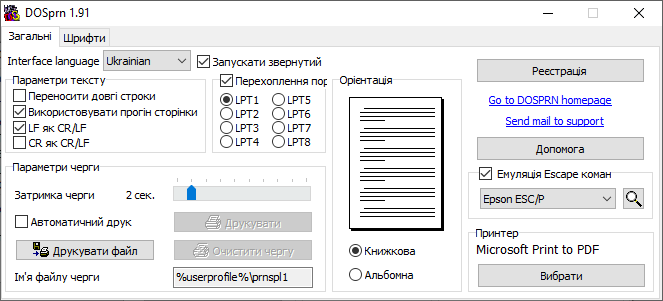
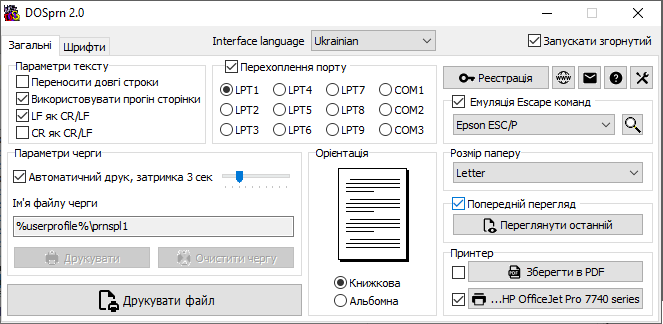
v2.0

diff --git a/readme.htm b/readme.htm
@@ -1,5 +1,5 @@
 <!DOCTYPE HTML PUBLIC "-//W3C//DTD HTML 4.0 Transitional//EN">
-<HTML><HEAD><TITLE>DOSPRN 1.91 документація</TITLE>
+<HTML><HEAD><TITLE>DOSPRN 2.0 документація</TITLE>
 <META http-equiv=Content-Type content="text/html; charset=utf-8">
 <META http-equiv=Content-Language content=en-us>
 <META name=Keywords  content="DOS, printers, program, print, printer, USB, programs, LPT, DOS program, software, national, language, internanional" >
@@ -23,7 +23,7 @@
     <TD width="100%">      <table border="0" cellspacing="0" cellpadding="0">
         <tr>
           <td width="50"><IMG src="images/logo.gif" ALT="Print from DOS on printers under Windows98, WinXP, Windows2000" width="42" height="39"></td>
-          <td width="281"><font size="5"><b>DOSPRN 1.91</b></font></td>
+          <td width="281"><font size="5"><b>DOSPRN 2.0</b></font></td>
           <td width="194">      
       <table border="2" bgcolor="#C0C0C0" cellpadding="4" cellspacing="4">
         <tr>
@@ -64,7 +64,7 @@
       ознайомитися з роботою DOSPRN та спробувати її в роботі з вашими програмами для DOS на протязі випробувального періоду. По закінченні цьогу періоду
       ви маєте або зареєструвати вашу копію або видалити її з вашого комп'ютера за допомогою утиліти деінсталяції яка розміщена у головному меню Робочого столу у групі DOSPRN.</P>
       <H3 align=justify>Інсталяція</H3>
-      <P align=justify>Загрузіть та запустіть на виконання само-розпаковуючийся файл <I><a href="https://www.dosprn.com/DOSprn191.exe">DOSprn191.exe</a></I>. 
+      <P align=justify>Загрузіть та запустіть на виконання само-розпаковуючийся файл <I><a href="https://www.dosprn.com/DOSprn200.exe">DOSprn200.exe</a></I>. 
       Вам треба буде відповісти на кілька простих питань. Під час інсталяції DOSPRN копіює усі необхідні файли та створює ярлики на вашому комп'ютері.</P>
       <H3 align=justify>Запуск програми</H3>Ви можете стартувати DOSPRN за допомогою ярлика на Робочому Столі або з папки "DOSPRN" 
       у головному меню Windows. Також DOSPRN може стартувати автоматично разом в операційною системою з папки "Автозагрузка" (якщо ви обрали таку можливість під час інсталяції). 

diff --git a/news.htm b/news.htm
@@ -1,5 +1,5 @@
 <!DOCTYPE HTML PUBLIC "-//W3C//DTD HTML 4.0 Transitional//EN">
-<HTML><HEAD><TITLE>DOSPRN 1.91 секція новин</TITLE>
+<HTML><HEAD><TITLE>DOSPRN 2.0 секція новин</TITLE>
 <META http-equiv=Content-Language content=en-us>
 <META http-equiv=Content-Type content="text/html; charset=utf-8">
 <META name=Keywords  content="dos print news, dos printer driver, dos printer, dos usb driver, dos print command, DOS, printers, program, print, printer, USB, programs, LPT, DOS program, software, national, language, internanional" >
@@ -57,6 +57,16 @@
   <TR>
     <TD width="100%">
       <H3>Новини</H3>
+      <P><B>Version 2.0</B></P>
+      + додано нову опцію <a href="print-preview.htm">Попередній перегляд</a><br>
+      + додано нову опцію <a href="pdf-settings.htm">Зберегти у PDF</a> option<br>
+      + додана підтримка друку послідовних портів COM1..COM3<br>
+      + додана опція зберігання та відновлення налаштувань<br>
+      + додана можливість стоврювати <a href="inline-qrcode.htm">QR коди</a> безпосередньо з текстів у документах<br>
+      + додано інтерфейс Традиційний Китайський<br>
+      + додана часткова еміуляція управляючих послідовностей ETEN Chinese<br>
+      * суттєві зміни інтерфейсу<br>
+      * виправлення помилок<br>
       <P><B>Version 1.91</B></P>
       + додана підтримка паралельних портів LPT4..LPT8<br>
       * виправлена помилка переривання повноекранного режима ДОС під час друку<br>

diff --git a/index.htm b/index.htm
@@ -1,5 +1,5 @@
 <!DOCTYPE HTML PUBLIC "-//W3C//DTD HTML 4.0 Transitional//EN">
-<HTML><HEAD><TITLE>DOSPRN 1.91. Друкуємо з DOS програм на принтери зумісні з Windows</TITLE>
+<HTML><HEAD><TITLE>DOSPRN 2.0. Друкуємо з DOS програм на принтери зумісні з Windows</TITLE>
 <META http-equiv=Content-Type content="text/html; charset=utf-8">
 <META http-equiv=Content-Language content=en-us>
 <META name=Keywords  content="dos print, printer, printers, DOS, win, windows, win2k, windows2000, program, USB, programs, LPT, DOS program, software, national, language, internanional" >
@@ -22,7 +22,7 @@
       <table border="0" cellspacing="0" cellpadding="0">
         <tr>
           <td width="50"><IMG src="images/logo.gif" ALT="Print from DOS on printers under Windows98, WinXP, Windows2000" width="42" height="39"></td>
-          <td width="281"><font size="5"><b>DOSPRN 1.91</b></font></td>
+          <td width="281"><font size="5"><b>DOSPRN 2.0</b></font></td>
           <td width="194">      
       <table border="2" bgcolor="#C0C0C0" cellpadding="4" cellspacing="4">
         <tr>
@@ -60,7 +60,7 @@
       <P>DOSPRN також може бути корисний якщо DOS програма прациює на вашій <b>рідній мові</b> але ваш принтер 
       не підтримує друк на вашій мові у текстовому режимі.</P>
       <P>DOSPRN розповсюджується як shareware. Загрузіть його звідси та <I><B><A 
-      href="https://www.dosprn.com/DOSprn191.exe">Спробуйте ЗАРАЗ</A></B></I> 
+      href="https://www.dosprn.com/DOSprn200.exe">Спробуйте ЗАРАЗ</A></B></I> 
       </P></TD></TR>
   <TR>
     <TD align=middle width=550 height=26>

diff --git a/download.htm b/download.htm
@@ -1,5 +1,5 @@
 <!DOCTYPE HTML PUBLIC "-//W3C//DTD HTML 4.0 Transitional//EN">
-<HTML><HEAD><TITLE>DOSPRN 1.91 dowload now</TITLE>
+<HTML><HEAD><TITLE>DOSPRN 2.0 dowload now</TITLE>
 <META http-equiv=Content-Language content=en-us>
 <META http-equiv=Content-Type content="text/html; charset=windows-1252">
 <META name=Keywords  content="dos printer driver, dos print download, dos printer, dos usb driver, dos print command, DOS, printers, program, print, printer, USB, programs, LPT, DOS program, software, national, language, internanional" >
@@ -22,7 +22,7 @@
     <TD width="100%">      <table border="0" cellspacing="0" cellpadding="0">
         <tr>
           <td width="50"><IMG src="images/logo.gif" ALT="Print from DOS on printers under Windows98, WinXP, Windows2000" width="42" height="39"></td>
-          <td width="281"><font size="5"><b>DOSPRN 1.91</b></font></td>
+          <td width="281"><font size="5"><b>DOSPRN 2.0</b></font></td>
           <td width="194">      
       <table border="2" bgcolor="#C0C0C0" cellpadding="4" cellspacing="4">
         <tr>
@@ -62,8 +62,8 @@
       <p>We strongly recommend that you thoroughly review the <a href="readme.htm">DOSPRN manual</a>
       and <a href="faq.htm">our FAQ</a>.<br>
       <br>
-      <a href="https://www.dosprn.com/DOSprn191.exe">Click here for download the
-      self-extracting file <i>DOSprn191.exe (1.8 Mb)</i></a><br>
+      <a href="https://www.dosprn.com/DOSprn200.exe">Click here for download the
+      self-extracting file <i>DOSprn200.exe (1.8 Mb)</i></a><br>
       <br>
       DOSPRN will remind you about registration each time you print report from your DOS application. If you have
       any questions about

diff --git a/order.htm b/order.htm
@@ -1,5 +1,5 @@
 <!DOCTYPE HTML PUBLIC "-//W3C//DTD HTML 4.0 Transitional//EN">
-<HTML><HEAD><TITLE>Order DOSPRN 1.91</TITLE>
+<HTML><HEAD><TITLE>Order DOSPRN 2.0</TITLE>
 <META http-equiv=Content-Language content=en-us>
 <META http-equiv=Content-Type content="text/html; charset=windows-1252">
 <META name=Keywords content="DOS print order, DOS2usb purchase, DOS printers, program, print, printer, DOS USB, programs, LPT, DOS program, DOS software">
@@ -24,7 +24,7 @@
       <table border="0" cellspacing="0" cellpadding="0">
         <tr>
           <td width="50"><IMG src="images/logo.gif" ALT="Print from DOS on printers under Windows98, WinXP, Windows2000" width="42" height="39"></td>
-          <td width="281"><font size="5"><b>DOSPRN 1.91</b></font></td>
+          <td width="281"><font size="5"><b>DOSPRN 2.0</b></font></td>
           <td width="194">      
       <table border="2" bgcolor="#C0C0C0" cellpadding="4" cellspacing="4">
         <tr>
@@ -78,7 +78,7 @@ After expiry of the trial period, you&nbsp;should register this program.</P>
 
       <P>
       If your DOSPRN's trial period has been expired now you can download and install
-      a <a href="https://www.dosprn.com/DOSprn191.exe">special "vacation" build</a> of DOSPRN 1.91. The trial period will be 
+      a <a href="https://www.dosprn.com/DOSprn200.exe">special "vacation" build</a> of DOSPRN 2.0. The trial period will be 
       expanded up to August, 1.
       </P>
 -->

diff --git a/sequences.htm b/sequences.htm
@@ -1,5 +1,5 @@
 <!DOCTYPE HTML PUBLIC "-//W3C//DTD HTML 4.0 Transitional//EN">
-<HTML><HEAD><TITLE>DOSPRN 1.91 supported ESC sequences</TITLE>
+<HTML><HEAD><TITLE>DOSPRN 2.0 supported ESC sequences</TITLE>
 <META http-equiv=Content-Type content="text/html; charset=windows-1251">
 <META name=Keywords  content="dos printer driver, dos printer, dos usb driver, dos print command, DOS, printers, program, print, printer, USB, programs, LPT, DOS program, software, national, language, internanional" >
 <META name=Description  content="DOSPRN allow to use your old favorite DOS program with new printers independently of their types (yes, and USB also !)" >
@@ -22,7 +22,7 @@
     <TD width="100%">      <table border="0" cellspacing="0" cellpadding="0" width="630">
         <tr>
           <td width="50"><IMG src="images/logo.gif" ALT="Print from DOS on printers under Windows98, WinXP, Windows2000" width="42" height="39"></td>
-          <td width="345"><font size="5"><b>DOSPRN 1.91</b></font></td>
+          <td width="345"><font size="5"><b>DOSPRN 2.0</b></font></td>
           <td width="229">      
       <table border="2" bgcolor="#C0C0C0" cellpadding="4" cellspacing="4">
         <tr>

diff --git a/login.htm b/login.htm
@@ -1,5 +1,5 @@
 <!DOCTYPE HTML PUBLIC "-//W3C//DTD HTML 4.0 Transitional//EN">
-<HTML><HEAD><TITLE>DOSPRN 1.91 registered users login</TITLE>
+<HTML><HEAD><TITLE>DOSPRN 2.0 registered users login</TITLE>
 <META http-equiv=Content-Language content=en-us>
 <META http-equiv=Content-Type content="text/html; charset=windows-1252">
 <META name=Keywords  content="dos printer driver, dos printer, dos usb driver, dos print command, DOS, printers, program, print, printer, USB, programs, LPT, DOS program, software, national, language, internanional" >
@@ -22,7 +22,7 @@
     <TD width="100%">      <table border="0" cellspacing="0" cellpadding="0">
         <tr>
           <td width="50"><IMG src="images/logo.gif" ALT="Print from DOS on printers under Windows98, WinXP, Windows2000" width="42" height="39"></td>
-          <td width="281"><font size="5"><b>DOSPRN 1.91</b></font></td>
+          <td width="281"><font size="5"><b>DOSPRN 2.0</b></font></td>
           <td width="194">      
       <table border="2" bgcolor="#C0C0C0" cellpadding="4" cellspacing="4">
         <tr>

diff --git a/languages.htm b/languages.htm
@@ -5,7 +5,7 @@
 <meta name="Description" content="DOSPRN allow to use your old favorite DOS program with new printers independently of their types (yes, and USB also !)">
 <meta name="GENERATOR" content="Microsoft FrontPage 6.0">
 <meta name="ProgId" content="FrontPage.Editor.Document">
-<TITLE>DOSPRN 1.91 languages supported</TITLE>
+<TITLE>DOSPRN 2.0 languages supported</TITLE>
 <meta name=viewport content="width=device-width, initial-scale=1">
 
 <script type="text/javascript">
@@ -25,7 +25,7 @@
     <TD width="100%">      <table border="0" cellspacing="0" cellpadding="0">
         <tr>
           <td width="50"><IMG src="images/logo.gif" ALT="Print from DOS on printers under Windows98, WinXP, Windows2000" width="42" height="39"></td>
-          <td width="281"><font size="5"><b>DOSPRN 1.91</b></font></td>
+          <td width="281"><font size="5"><b>DOSPRN 2.0</b></font></td>
           <td width="194">      
       <table border="2" bgcolor="#C0C0C0" cellpadding="4" cellspacing="4">
         <tr>

diff --git a/codepages.htm b/codepages.htm
@@ -1,4 +1,4 @@
-<HTML><HEAD><TITLE>DOSPRN 1.91 codepages support</TITLE>
+<HTML><HEAD><TITLE>DOSPRN 2.0 codepages support</TITLE>
 <META http-equiv=Content-Type content="text/html; charset=windows-1251">
 <META name=Keywords content="dos printer driver, dos code, dos codepages, dos codepages, dos printer, dos usb driver, dos print command, DOS, printers, program, print, printer, USB, programs, LPT, DOS program, software, national, language, internanional">
 <META name=Description content="DOSPRN allow to use your old favorite DOS program with new printers independently of their types (yes, and USB also !)">
@@ -22,7 +22,7 @@
 
 <TR>
 <TD width=50><IMG height=39 alt="Print from DOS on printers under Windows98, WinXP, Windows2000" src="images/logo.gif" width=42></TD>
-<TD width=281><FONT size=5><B>DOSPRN 1.91</B></FONT></TD>
+<TD width=281><FONT size=5><B>DOSPRN 2.0</B></FONT></TD>
 <TD width=194>
 <TABLE cellSpacing=4 cellPadding=4 bgColor=#c0c0c0 border=2>
 

diff --git a/faq.htm b/faq.htm
@@ -22,7 +22,7 @@
     <TD width="100%">      <table border="0" cellspacing="0" cellpadding="0">
         <tr>
           <td width="50"><IMG src="images/logo.gif" ALT="Print from DOS on printers under Windows98, WinXP, Windows2000" width="42" height="39"></td>
-          <td width="281"><font size="5"><b>DOSPRN 1.91</b></font></td>
+          <td width="281"><font size="5"><b>DOSPRN 2.0</b></font></td>
           <td width="194">      
       <table border="2" bgcolor="#C0C0C0" cellpadding="4" cellspacing="4">
         <tr>
